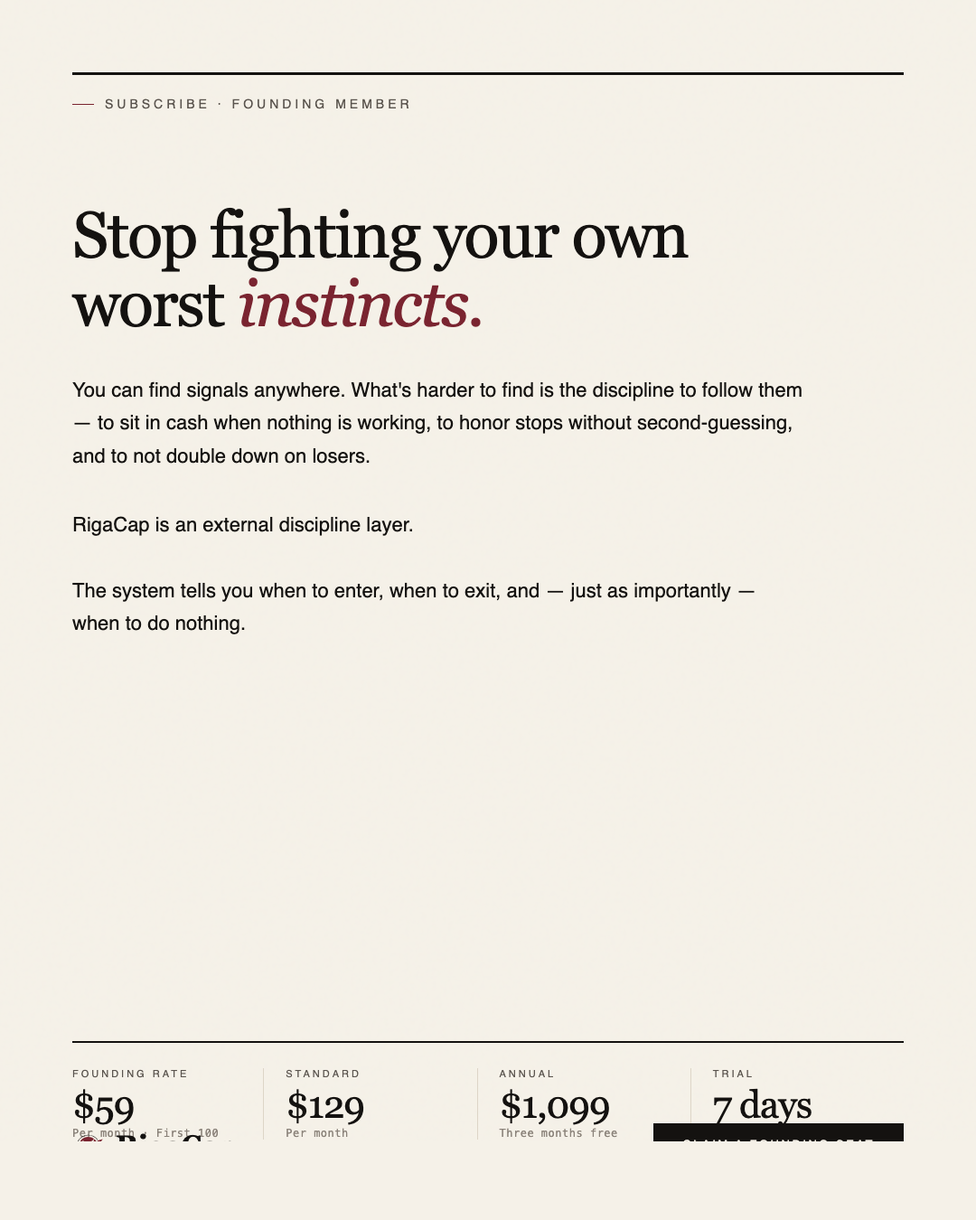
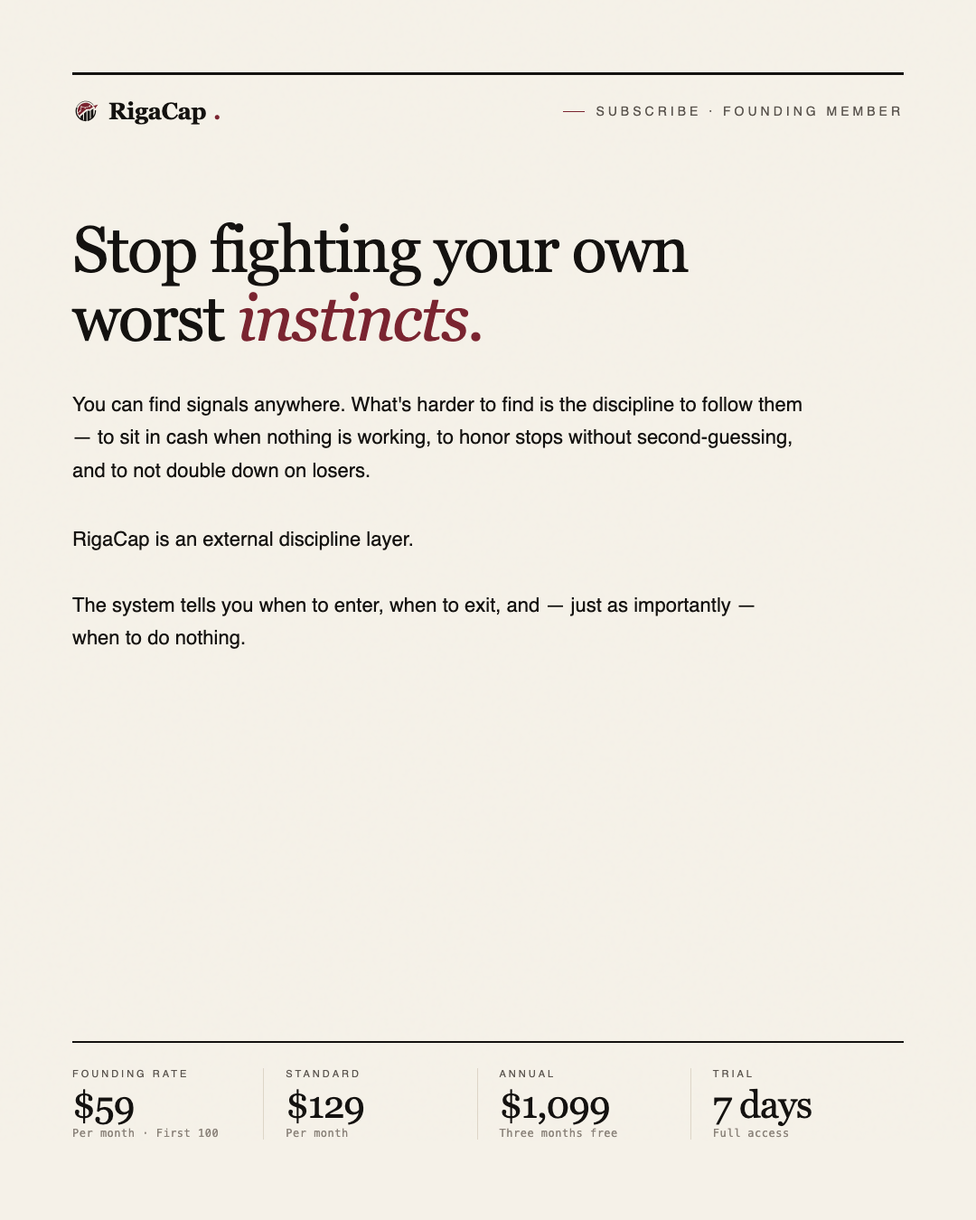
launch cards: brand to masthead, drop footer
The footer at the bottom of each card was getting clipped against the
1350px card edge — RigaCap brand mark + the black RIGACAP.COM CTA were
both partly cut off. And the footer's brand was duplicating something
that belongs in the masthead anyway.

  - .top-rule now flexes brand-left + kicker-right across a thick
    ink rule. New .masthead-brand class: 32px Fraunces logo + 26px
    semibold "RigaCap." with a claret dot.
  - The old .footer block (logo + RIGACAP.COM CTA) is removed from
    every card. The CTA url belongs in the social-post caption, not
    on the card.
  - Cleaner editorial register overall — the cards now lead with
    brand identity and let the stats/pillars fill the bottom of the
    canvas without competing with a footer.

diff --git a/design/brand/social-launch-cards-v2.html b/design/brand/social-launch-cards-v2.html
@@ -19,9 +19,12 @@
     opacity: 0.04; pointer-events: none; z-index: 1;
   }
   .content { position: relative; z-index: 2; height: 100%; display: flex; flex-direction: column; padding: 80px 80px 60px; }
-  .top-rule { border-top: 3px solid #141210; padding-top: 24px; margin-bottom: 40px; }
-  .kicker { font-size: 14px; font-weight: 500; letter-spacing: 4px; text-transform: uppercase; color: #5A544E; display: flex; align-items: center; gap: 12px; }
+  .top-rule { border-top: 3px solid #141210; padding-top: 24px; margin-bottom: 40px; display: flex; justify-content: space-between; align-items: center; gap: 24px; }
+  .kicker { font-size: 14px; font-weight: 500; letter-spacing: 4px; text-transform: uppercase; color: #5A544E; display: flex; align-items: center; gap: 12px; flex-shrink: 0; }
   .kicker::before { content: ''; width: 24px; height: 1px; background: #7A2430; }
+  .masthead-brand { font-family: 'Fraunces', Georgia, serif; font-size: 26px; font-weight: 600; letter-spacing: -0.5px; display: flex; align-items: center; gap: 8px; color: #141210; }
+  .masthead-brand .dot { color: #7A2430; }
+  .masthead-logo { width: 32px; height: 32px; }
   .headline { font-family: 'Fraunces', Georgia, serif; font-size: 72px; font-weight: 400; line-height: 1.05; letter-spacing: -2px; margin-top: 60px; }
   .headline em { color: #7A2430; font-style: italic; }
   .subhead { font-family: 'Fraunces', Georgia, serif; font-style: italic; font-size: 28px; color: #5A544E; line-height: 1.45; margin-top: 32px; max-width: 920px; }
@@ -60,6 +63,7 @@
 <div class="card">
   <div class="content">
     <div class="top-rule">
+      <span class="masthead-brand"><svg class="masthead-logo" xmlns="http://www.w3.org/2000/svg" viewBox="0 0 1280 1024"><g transform="matrix(5.27 0 0 5.27 640 511)"><g><g transform="matrix(0.448 0 0 0.448 -22.4 -28.8)"><path fill="#7A2430" transform="translate(-300,-286)" d="M215.49 348.13C215.49 341.43 220.55 335.98 227.05 335.22L241.64 278.36C238.32 275.99 236.13 272.12 236.13 267.73C236.13 260.51 241.98 254.66 249.2 254.66C255.89 254.66 261.34 259.71 262.11 266.19L309.18 278.16C311.55 274.82 315.42 272.63 319.83 272.63C324 272.63 327.67 274.62 330.06 277.66L391.39 258.85C391.87 252.06 397.46 246.69 404.37 246.69C405.09 246.69 405.78 246.79 406.47 246.91L420.4 223.13C395.44 205.2 364.84 194.62 331.76 194.62C247.75 194.62 179.66 262.72 179.66 346.72C179.66 357.06 180.71 367.15 182.69 376.91L216.05 351.72C215.72 350.57 215.49 349.38 215.49 348.13z"/></g><g transform="matrix(0.448 0 0 0.448 -11.1 -9)"><path fill="#7A2430" transform="translate(-325,-330)" d="M427.89 228.86L414.54 251.65C416.32 253.88 417.43 256.68 417.43 259.76C417.43 266.98 411.58 272.83 404.37 272.83C400.19 272.83 396.52 270.84 394.13 267.79L332.8 286.61C332.33 293.39 326.73 298.76 319.83 298.76C313.14 298.76 307.69 293.72 306.92 287.24L259.84 275.26C257.76 278.21 254.48 280.2 250.71 280.64L236.12 337.5C239.44 339.87 241.63 343.74 241.63 348.13C241.63 355.35 235.78 361.2 228.56 361.2C226.02 361.2 223.68 360.45 221.67 359.19L185.04 386.86C189.39 402.76 196.25 417.63 205.17 431L343.51 312.12L408.04 312.12L465.59 274.41C456.09 256.86 443.23 241.4 427.89 228.86z"/></g><g transform="matrix(0.448 0 0 0.448 73.8 -37.1)"><polygon fill="#7A2430" points="-45.31,-14.33 45.31,-39.44 -12.75,39.44 -17.06,3.28"/></g><g transform="matrix(0.448 0 0 0.448 -48.2 25.7)"><path fill="#141210" transform="translate(-242,-407)" d="M297.69 513.38C291.85 512.18 286.13 510.68 280.53 508.91L280.53 405.3L233.16 446.01L233.16 485.18C189.93 454.31 161.67 403.77 161.67 346.72C161.67 321.48 167.23 297.53 177.14 275.97L153.41 275.97C144.69 297.88 139.84 321.74 139.84 346.72C139.84 452.54 225.93 538.63 331.76 538.63C336.23 538.63 340.66 538.42 345.06 538.12L345.06 349.85L297.69 390.55L297.69 513.38z"/></g><g transform="matrix(0.448 0 0 0.448 41.6 31.4)"><path fill="#141210" transform="translate(-443,-420)" d="M523.16 333.38L501.27 333.38C501.62 337.79 501.85 342.23 501.85 346.72C501.85 381 491.63 412.92 474.11 439.65L474.11 304.24L426.75 335.28L426.75 487.65C421.24 491.37 415.52 494.78 409.58 497.85L409.58 341.74L362.22 341.74L362.22 536.19C453.61 521.55 523.67 442.17 523.67 346.72C523.67 342.23 523.46 337.79 523.16 333.38z"/></g><g transform="matrix(0.448 0 0 0.448 -11.8 -60.8)"><path fill="#141210" transform="translate(-324,-214)" d="M331.75 169.32C390.45 169.32 442.58 197.98 474.89 242.04L483.06 239.78C449.46 192.37 394.16 161.37 331.75 161.37C258.06 161.37 194.28 204.6 164.43 267.02L173.29 267.02C202.53 209.12 262.58 169.32 331.75 169.32z"/></g></g></g></svg>RigaCap<span class="dot">.</span></span>
       <div class="kicker">Now Live · May 2026</div>
     </div>
     <h1 class="headline">A disciplined momentum strategy that stays in cash when it should — and&nbsp;<em>exits</em> before major&nbsp;drawdowns.</h1>
@@ -71,10 +75,6 @@
       <div class="stat"><div class="stat-label">Worst Start</div><div class="stat-value">+109%</div><div class="stat-sub">Still nearly 2&times;</div></div>
       <div class="stat"><div class="stat-label">Sharpe</div><div class="stat-value">0.92</div><div class="stat-sub">Risk-adjusted</div></div>
     </div>
-    <div class="footer">
-      <span class="brand"><svg class="brand-logo" xmlns="http://www.w3.org/2000/svg" viewBox="0 0 1280 1024"><g transform="matrix(5.27 0 0 5.27 640 511)"><g><g transform="matrix(0.448 0 0 0.448 -22.4 -28.8)"><path fill="#7A2430" transform="translate(-300,-286)" d="M215.49 348.13C215.49 341.43 220.55 335.98 227.05 335.22L241.64 278.36C238.32 275.99 236.13 272.12 236.13 267.73C236.13 260.51 241.98 254.66 249.2 254.66C255.89 254.66 261.34 259.71 262.11 266.19L309.18 278.16C311.55 274.82 315.42 272.63 319.83 272.63C324 272.63 327.67 274.62 330.06 277.66L391.39 258.85C391.87 252.06 397.46 246.69 404.37 246.69C405.09 246.69 405.78 246.79 406.47 246.91L420.4 223.13C395.44 205.2 364.84 194.62 331.76 194.62C247.75 194.62 179.66 262.72 179.66 346.72C179.66 357.06 180.71 367.15 182.69 376.91L216.05 351.72C215.72 350.57 215.49 349.38 215.49 348.13z"/></g><g transform="matrix(0.448 0 0 0.448 -11.1 -9)"><path fill="#7A2430" transform="translate(-325,-330)" d="M427.89 228.86L414.54 251.65C416.32 253.88 417.43 256.68 417.43 259.76C417.43 266.98 411.58 272.83 404.37 272.83C400.19 272.83 396.52 270.84 394.13 267.79L332.8 286.61C332.33 293.39 326.73 298.76 319.83 298.76C313.14 298.76 307.69 293.72 306.92 287.24L259.84 275.26C257.76 278.21 254.48 280.2 250.71 280.64L236.12 337.5C239.44 339.87 241.63 343.74 241.63 348.13C241.63 355.35 235.78 361.2 228.56 361.2C226.02 361.2 223.68 360.45 221.67 359.19L185.04 386.86C189.39 402.76 196.25 417.63 205.17 431L343.51 312.12L408.04 312.12L465.59 274.41C456.09 256.86 443.23 241.4 427.89 228.86z"/></g><g transform="matrix(0.448 0 0 0.448 73.8 -37.1)"><polygon fill="#7A2430" points="-45.31,-14.33 45.31,-39.44 -12.75,39.44 -17.06,3.28"/></g><g transform="matrix(0.448 0 0 0.448 -48.2 25.7)"><path fill="#141210" transform="translate(-242,-407)" d="M297.69 513.38C291.85 512.18 286.13 510.68 280.53 508.91L280.53 405.3L233.16 446.01L233.16 485.18C189.93 454.31 161.67 403.77 161.67 346.72C161.67 321.48 167.23 297.53 177.14 275.97L153.41 275.97C144.69 297.88 139.84 321.74 139.84 346.72C139.84 452.54 225.93 538.63 331.76 538.63C336.23 538.63 340.66 538.42 345.06 538.12L345.06 349.85L297.69 390.55L297.69 513.38z"/></g><g transform="matrix(0.448 0 0 0.448 41.6 31.4)"><path fill="#141210" transform="translate(-443,-420)" d="M523.16 333.38L501.27 333.38C501.62 337.79 501.85 342.23 501.85 346.72C501.85 381 491.63 412.92 474.11 439.65L474.11 304.24L426.75 335.28L426.75 487.65C421.24 491.37 415.52 494.78 409.58 497.85L409.58 341.74L362.22 341.74L362.22 536.19C453.61 521.55 523.67 442.17 523.67 346.72C523.67 342.23 523.46 337.79 523.16 333.38z"/></g><g transform="matrix(0.448 0 0 0.448 -11.8 -60.8)"><path fill="#141210" transform="translate(-324,-214)" d="M331.75 169.32C390.45 169.32 442.58 197.98 474.89 242.04L483.06 239.78C449.46 192.37 394.16 161.37 331.75 161.37C258.06 161.37 194.28 204.6 164.43 267.02L173.29 267.02C202.53 209.12 262.58 169.32 331.75 169.32z"/></g></g></g></svg>RigaCap<span class="dot">.</span></span>
-      <span class="cta">rigacap.com</span>
-    </div>
   </div>
   <span class="card-label">1 / 5</span>
 </div>
@@ -83,6 +83,7 @@
 <div class="card">
   <div class="content">
     <div class="top-rule">
+      <span class="masthead-brand"><svg class="masthead-logo" xmlns="http://www.w3.org/2000/svg" viewBox="0 0 1280 1024"><g transform="matrix(5.27 0 0 5.27 640 511)"><g><g transform="matrix(0.448 0 0 0.448 -22.4 -28.8)"><path fill="#7A2430" transform="translate(-300,-286)" d="M215.49 348.13C215.49 341.43 220.55 335.98 227.05 335.22L241.64 278.36C238.32 275.99 236.13 272.12 236.13 267.73C236.13 260.51 241.98 254.66 249.2 254.66C255.89 254.66 261.34 259.71 262.11 266.19L309.18 278.16C311.55 274.82 315.42 272.63 319.83 272.63C324 272.63 327.67 274.62 330.06 277.66L391.39 258.85C391.87 252.06 397.46 246.69 404.37 246.69C405.09 246.69 405.78 246.79 406.47 246.91L420.4 223.13C395.44 205.2 364.84 194.62 331.76 194.62C247.75 194.62 179.66 262.72 179.66 346.72C179.66 357.06 180.71 367.15 182.69 376.91L216.05 351.72C215.72 350.57 215.49 349.38 215.49 348.13z"/></g><g transform="matrix(0.448 0 0 0.448 -11.1 -9)"><path fill="#7A2430" transform="translate(-325,-330)" d="M427.89 228.86L414.54 251.65C416.32 253.88 417.43 256.68 417.43 259.76C417.43 266.98 411.58 272.83 404.37 272.83C400.19 272.83 396.52 270.84 394.13 267.79L332.8 286.61C332.33 293.39 326.73 298.76 319.83 298.76C313.14 298.76 307.69 293.72 306.92 287.24L259.84 275.26C257.76 278.21 254.48 280.2 250.71 280.64L236.12 337.5C239.44 339.87 241.63 343.74 241.63 348.13C241.63 355.35 235.78 361.2 228.56 361.2C226.02 361.2 223.68 360.45 221.67 359.19L185.04 386.86C189.39 402.76 196.25 417.63 205.17 431L343.51 312.12L408.04 312.12L465.59 274.41C456.09 256.86 443.23 241.4 427.89 228.86z"/></g><g transform="matrix(0.448 0 0 0.448 73.8 -37.1)"><polygon fill="#7A2430" points="-45.31,-14.33 45.31,-39.44 -12.75,39.44 -17.06,3.28"/></g><g transform="matrix(0.448 0 0 0.448 -48.2 25.7)"><path fill="#141210" transform="translate(-242,-407)" d="M297.69 513.38C291.85 512.18 286.13 510.68 280.53 508.91L280.53 405.3L233.16 446.01L233.16 485.18C189.93 454.31 161.67 403.77 161.67 346.72C161.67 321.48 167.23 297.53 177.14 275.97L153.41 275.97C144.69 297.88 139.84 321.74 139.84 346.72C139.84 452.54 225.93 538.63 331.76 538.63C336.23 538.63 340.66 538.42 345.06 538.12L345.06 349.85L297.69 390.55L297.69 513.38z"/></g><g transform="matrix(0.448 0 0 0.448 41.6 31.4)"><path fill="#141210" transform="translate(-443,-420)" d="M523.16 333.38L501.27 333.38C501.62 337.79 501.85 342.23 501.85 346.72C501.85 381 491.63 412.92 474.11 439.65L474.11 304.24L426.75 335.28L426.75 487.65C421.24 491.37 415.52 494.78 409.58 497.85L409.58 341.74L362.22 341.74L362.22 536.19C453.61 521.55 523.67 442.17 523.67 346.72C523.67 342.23 523.46 337.79 523.16 333.38z"/></g><g transform="matrix(0.448 0 0 0.448 -11.8 -60.8)"><path fill="#141210" transform="translate(-324,-214)" d="M331.75 169.32C390.45 169.32 442.58 197.98 474.89 242.04L483.06 239.78C449.46 192.37 394.16 161.37 331.75 161.37C258.06 161.37 194.28 204.6 164.43 267.02L173.29 267.02C202.53 209.12 262.58 169.32 331.75 169.32z"/></g></g></g></svg>RigaCap<span class="dot">.</span></span>
       <div class="kicker">Performance · Walk-Forward Validated</div>
     </div>
     <h1 class="headline">Five years.<br>Multiple start dates.<br>No&nbsp;<em>cherry-picking.</em></h1>
@@ -95,10 +96,6 @@
       <div class="stat"><div class="stat-label">Max DD</div><div class="stat-value">20.4%</div><div class="stat-sub">Drawdown</div></div>
     </div>
     <div class="pullquote">Every start date ended 2022 in positive territory while the S&P fell 20% — not by luck, but by&nbsp;design.</div>
-    <div class="footer">
-      <span class="brand"><svg class="brand-logo" xmlns="http://www.w3.org/2000/svg" viewBox="0 0 1280 1024"><g transform="matrix(5.27 0 0 5.27 640 511)"><g><g transform="matrix(0.448 0 0 0.448 -22.4 -28.8)"><path fill="#7A2430" transform="translate(-300,-286)" d="M215.49 348.13C215.49 341.43 220.55 335.98 227.05 335.22L241.64 278.36C238.32 275.99 236.13 272.12 236.13 267.73C236.13 260.51 241.98 254.66 249.2 254.66C255.89 254.66 261.34 259.71 262.11 266.19L309.18 278.16C311.55 274.82 315.42 272.63 319.83 272.63C324 272.63 327.67 274.62 330.06 277.66L391.39 258.85C391.87 252.06 397.46 246.69 404.37 246.69C405.09 246.69 405.78 246.79 406.47 246.91L420.4 223.13C395.44 205.2 364.84 194.62 331.76 194.62C247.75 194.62 179.66 262.72 179.66 346.72C179.66 357.06 180.71 367.15 182.69 376.91L216.05 351.72C215.72 350.57 215.49 349.38 215.49 348.13z"/></g><g transform="matrix(0.448 0 0 0.448 -11.1 -9)"><path fill="#7A2430" transform="translate(-325,-330)" d="M427.89 228.86L414.54 251.65C416.32 253.88 417.43 256.68 417.43 259.76C417.43 266.98 411.58 272.83 404.37 272.83C400.19 272.83 396.52 270.84 394.13 267.79L332.8 286.61C332.33 293.39 326.73 298.76 319.83 298.76C313.14 298.76 307.69 293.72 306.92 287.24L259.84 275.26C257.76 278.21 254.48 280.2 250.71 280.64L236.12 337.5C239.44 339.87 241.63 343.74 241.63 348.13C241.63 355.35 235.78 361.2 228.56 361.2C226.02 361.2 223.68 360.45 221.67 359.19L185.04 386.86C189.39 402.76 196.25 417.63 205.17 431L343.51 312.12L408.04 312.12L465.59 274.41C456.09 256.86 443.23 241.4 427.89 228.86z"/></g><g transform="matrix(0.448 0 0 0.448 73.8 -37.1)"><polygon fill="#7A2430" points="-45.31,-14.33 45.31,-39.44 -12.75,39.44 -17.06,3.28"/></g><g transform="matrix(0.448 0 0 0.448 -48.2 25.7)"><path fill="#141210" transform="translate(-242,-407)" d="M297.69 513.38C291.85 512.18 286.13 510.68 280.53 508.91L280.53 405.3L233.16 446.01L233.16 485.18C189.93 454.31 161.67 403.77 161.67 346.72C161.67 321.48 167.23 297.53 177.14 275.97L153.41 275.97C144.69 297.88 139.84 321.74 139.84 346.72C139.84 452.54 225.93 538.63 331.76 538.63C336.23 538.63 340.66 538.42 345.06 538.12L345.06 349.85L297.69 390.55L297.69 513.38z"/></g><g transform="matrix(0.448 0 0 0.448 41.6 31.4)"><path fill="#141210" transform="translate(-443,-420)" d="M523.16 333.38L501.27 333.38C501.62 337.79 501.85 342.23 501.85 346.72C501.85 381 491.63 412.92 474.11 439.65L474.11 304.24L426.75 335.28L426.75 487.65C421.24 491.37 415.52 494.78 409.58 497.85L409.58 341.74L362.22 341.74L362.22 536.19C453.61 521.55 523.67 442.17 523.67 346.72C523.67 342.23 523.46 337.79 523.16 333.38z"/></g><g transform="matrix(0.448 0 0 0.448 -11.8 -60.8)"><path fill="#141210" transform="translate(-324,-214)" d="M331.75 169.32C390.45 169.32 442.58 197.98 474.89 242.04L483.06 239.78C449.46 192.37 394.16 161.37 331.75 161.37C258.06 161.37 194.28 204.6 164.43 267.02L173.29 267.02C202.53 209.12 262.58 169.32 331.75 169.32z"/></g></g></g></svg>RigaCap<span class="dot">.</span></span>
-      <span class="cta">rigacap.com/track-record</span>
-    </div>
   </div>
   <span class="card-label">2 / 5</span>
 </div>
@@ -107,6 +104,7 @@
 <div class="card">
   <div class="content">
     <div class="top-rule">
+      <span class="masthead-brand"><svg class="masthead-logo" xmlns="http://www.w3.org/2000/svg" viewBox="0 0 1280 1024"><g transform="matrix(5.27 0 0 5.27 640 511)"><g><g transform="matrix(0.448 0 0 0.448 -22.4 -28.8)"><path fill="#7A2430" transform="translate(-300,-286)" d="M215.49 348.13C215.49 341.43 220.55 335.98 227.05 335.22L241.64 278.36C238.32 275.99 236.13 272.12 236.13 267.73C236.13 260.51 241.98 254.66 249.2 254.66C255.89 254.66 261.34 259.71 262.11 266.19L309.18 278.16C311.55 274.82 315.42 272.63 319.83 272.63C324 272.63 327.67 274.62 330.06 277.66L391.39 258.85C391.87 252.06 397.46 246.69 404.37 246.69C405.09 246.69 405.78 246.79 406.47 246.91L420.4 223.13C395.44 205.2 364.84 194.62 331.76 194.62C247.75 194.62 179.66 262.72 179.66 346.72C179.66 357.06 180.71 367.15 182.69 376.91L216.05 351.72C215.72 350.57 215.49 349.38 215.49 348.13z"/></g><g transform="matrix(0.448 0 0 0.448 -11.1 -9)"><path fill="#7A2430" transform="translate(-325,-330)" d="M427.89 228.86L414.54 251.65C416.32 253.88 417.43 256.68 417.43 259.76C417.43 266.98 411.58 272.83 404.37 272.83C400.19 272.83 396.52 270.84 394.13 267.79L332.8 286.61C332.33 293.39 326.73 298.76 319.83 298.76C313.14 298.76 307.69 293.72 306.92 287.24L259.84 275.26C257.76 278.21 254.48 280.2 250.71 280.64L236.12 337.5C239.44 339.87 241.63 343.74 241.63 348.13C241.63 355.35 235.78 361.2 228.56 361.2C226.02 361.2 223.68 360.45 221.67 359.19L185.04 386.86C189.39 402.76 196.25 417.63 205.17 431L343.51 312.12L408.04 312.12L465.59 274.41C456.09 256.86 443.23 241.4 427.89 228.86z"/></g><g transform="matrix(0.448 0 0 0.448 73.8 -37.1)"><polygon fill="#7A2430" points="-45.31,-14.33 45.31,-39.44 -12.75,39.44 -17.06,3.28"/></g><g transform="matrix(0.448 0 0 0.448 -48.2 25.7)"><path fill="#141210" transform="translate(-242,-407)" d="M297.69 513.38C291.85 512.18 286.13 510.68 280.53 508.91L280.53 405.3L233.16 446.01L233.16 485.18C189.93 454.31 161.67 403.77 161.67 346.72C161.67 321.48 167.23 297.53 177.14 275.97L153.41 275.97C144.69 297.88 139.84 321.74 139.84 346.72C139.84 452.54 225.93 538.63 331.76 538.63C336.23 538.63 340.66 538.42 345.06 538.12L345.06 349.85L297.69 390.55L297.69 513.38z"/></g><g transform="matrix(0.448 0 0 0.448 41.6 31.4)"><path fill="#141210" transform="translate(-443,-420)" d="M523.16 333.38L501.27 333.38C501.62 337.79 501.85 342.23 501.85 346.72C501.85 381 491.63 412.92 474.11 439.65L474.11 304.24L426.75 335.28L426.75 487.65C421.24 491.37 415.52 494.78 409.58 497.85L409.58 341.74L362.22 341.74L362.22 536.19C453.61 521.55 523.67 442.17 523.67 346.72C523.67 342.23 523.46 337.79 523.16 333.38z"/></g><g transform="matrix(0.448 0 0 0.448 -11.8 -60.8)"><path fill="#141210" transform="translate(-324,-214)" d="M331.75 169.32C390.45 169.32 442.58 197.98 474.89 242.04L483.06 239.78C449.46 192.37 394.16 161.37 331.75 161.37C258.06 161.37 194.28 204.6 164.43 267.02L173.29 267.02C202.53 209.12 262.58 169.32 331.75 169.32z"/></g></g></g></svg>RigaCap<span class="dot">.</span></span>
       <div class="kicker">The Edge · Three-Factor Ensemble</div>
     </div>
     <h1 class="headline">Three pieces of discipline.<br>All must&nbsp;<em>align.</em></h1>
@@ -128,10 +126,6 @@
       </div>
     </div>
     <div class="spacer"></div>
-    <div class="footer">
-      <span class="brand"><svg class="brand-logo" xmlns="http://www.w3.org/2000/svg" viewBox="0 0 1280 1024"><g transform="matrix(5.27 0 0 5.27 640 511)"><g><g transform="matrix(0.448 0 0 0.448 -22.4 -28.8)"><path fill="#7A2430" transform="translate(-300,-286)" d="M215.49 348.13C215.49 341.43 220.55 335.98 227.05 335.22L241.64 278.36C238.32 275.99 236.13 272.12 236.13 267.73C236.13 260.51 241.98 254.66 249.2 254.66C255.89 254.66 261.34 259.71 262.11 266.19L309.18 278.16C311.55 274.82 315.42 272.63 319.83 272.63C324 272.63 327.67 274.62 330.06 277.66L391.39 258.85C391.87 252.06 397.46 246.69 404.37 246.69C405.09 246.69 405.78 246.79 406.47 246.91L420.4 223.13C395.44 205.2 364.84 194.62 331.76 194.62C247.75 194.62 179.66 262.72 179.66 346.72C179.66 357.06 180.71 367.15 182.69 376.91L216.05 351.72C215.72 350.57 215.49 349.38 215.49 348.13z"/></g><g transform="matrix(0.448 0 0 0.448 -11.1 -9)"><path fill="#7A2430" transform="translate(-325,-330)" d="M427.89 228.86L414.54 251.65C416.32 253.88 417.43 256.68 417.43 259.76C417.43 266.98 411.58 272.83 404.37 272.83C400.19 272.83 396.52 270.84 394.13 267.79L332.8 286.61C332.33 293.39 326.73 298.76 319.83 298.76C313.14 298.76 307.69 293.72 306.92 287.24L259.84 275.26C257.76 278.21 254.48 280.2 250.71 280.64L236.12 337.5C239.44 339.87 241.63 343.74 241.63 348.13C241.63 355.35 235.78 361.2 228.56 361.2C226.02 361.2 223.68 360.45 221.67 359.19L185.04 386.86C189.39 402.76 196.25 417.63 205.17 431L343.51 312.12L408.04 312.12L465.59 274.41C456.09 256.86 443.23 241.4 427.89 228.86z"/></g><g transform="matrix(0.448 0 0 0.448 73.8 -37.1)"><polygon fill="#7A2430" points="-45.31,-14.33 45.31,-39.44 -12.75,39.44 -17.06,3.28"/></g><g transform="matrix(0.448 0 0 0.448 -48.2 25.7)"><path fill="#141210" transform="translate(-242,-407)" d="M297.69 513.38C291.85 512.18 286.13 510.68 280.53 508.91L280.53 405.3L233.16 446.01L233.16 485.18C189.93 454.31 161.67 403.77 161.67 346.72C161.67 321.48 167.23 297.53 177.14 275.97L153.41 275.97C144.69 297.88 139.84 321.74 139.84 346.72C139.84 452.54 225.93 538.63 331.76 538.63C336.23 538.63 340.66 538.42 345.06 538.12L345.06 349.85L297.69 390.55L297.69 513.38z"/></g><g transform="matrix(0.448 0 0 0.448 41.6 31.4)"><path fill="#141210" transform="translate(-443,-420)" d="M523.16 333.38L501.27 333.38C501.62 337.79 501.85 342.23 501.85 346.72C501.85 381 491.63 412.92 474.11 439.65L474.11 304.24L426.75 335.28L426.75 487.65C421.24 491.37 415.52 494.78 409.58 497.85L409.58 341.74L362.22 341.74L362.22 536.19C453.61 521.55 523.67 442.17 523.67 346.72C523.67 342.23 523.46 337.79 523.16 333.38z"/></g><g transform="matrix(0.448 0 0 0.448 -11.8 -60.8)"><path fill="#141210" transform="translate(-324,-214)" d="M331.75 169.32C390.45 169.32 442.58 197.98 474.89 242.04L483.06 239.78C449.46 192.37 394.16 161.37 331.75 161.37C258.06 161.37 194.28 204.6 164.43 267.02L173.29 267.02C202.53 209.12 262.58 169.32 331.75 169.32z"/></g></g></g></svg>RigaCap<span class="dot">.</span></span>
-      <span class="cta">rigacap.com/methodology</span>
-    </div>
   </div>
   <span class="card-label">3 / 5</span>
 </div>
@@ -140,6 +134,7 @@
 <div class="card">
   <div class="content">
     <div class="top-rule">
+      <span class="masthead-brand"><svg class="masthead-logo" xmlns="http://www.w3.org/2000/svg" viewBox="0 0 1280 1024"><g transform="matrix(5.27 0 0 5.27 640 511)"><g><g transform="matrix(0.448 0 0 0.448 -22.4 -28.8)"><path fill="#7A2430" transform="translate(-300,-286)" d="M215.49 348.13C215.49 341.43 220.55 335.98 227.05 335.22L241.64 278.36C238.32 275.99 236.13 272.12 236.13 267.73C236.13 260.51 241.98 254.66 249.2 254.66C255.89 254.66 261.34 259.71 262.11 266.19L309.18 278.16C311.55 274.82 315.42 272.63 319.83 272.63C324 272.63 327.67 274.62 330.06 277.66L391.39 258.85C391.87 252.06 397.46 246.69 404.37 246.69C405.09 246.69 405.78 246.79 406.47 246.91L420.4 223.13C395.44 205.2 364.84 194.62 331.76 194.62C247.75 194.62 179.66 262.72 179.66 346.72C179.66 357.06 180.71 367.15 182.69 376.91L216.05 351.72C215.72 350.57 215.49 349.38 215.49 348.13z"/></g><g transform="matrix(0.448 0 0 0.448 -11.1 -9)"><path fill="#7A2430" transform="translate(-325,-330)" d="M427.89 228.86L414.54 251.65C416.32 253.88 417.43 256.68 417.43 259.76C417.43 266.98 411.58 272.83 404.37 272.83C400.19 272.83 396.52 270.84 394.13 267.79L332.8 286.61C332.33 293.39 326.73 298.76 319.83 298.76C313.14 298.76 307.69 293.72 306.92 287.24L259.84 275.26C257.76 278.21 254.48 280.2 250.71 280.64L236.12 337.5C239.44 339.87 241.63 343.74 241.63 348.13C241.63 355.35 235.78 361.2 228.56 361.2C226.02 361.2 223.68 360.45 221.67 359.19L185.04 386.86C189.39 402.76 196.25 417.63 205.17 431L343.51 312.12L408.04 312.12L465.59 274.41C456.09 256.86 443.23 241.4 427.89 228.86z"/></g><g transform="matrix(0.448 0 0 0.448 73.8 -37.1)"><polygon fill="#7A2430" points="-45.31,-14.33 45.31,-39.44 -12.75,39.44 -17.06,3.28"/></g><g transform="matrix(0.448 0 0 0.448 -48.2 25.7)"><path fill="#141210" transform="translate(-242,-407)" d="M297.69 513.38C291.85 512.18 286.13 510.68 280.53 508.91L280.53 405.3L233.16 446.01L233.16 485.18C189.93 454.31 161.67 403.77 161.67 346.72C161.67 321.48 167.23 297.53 177.14 275.97L153.41 275.97C144.69 297.88 139.84 321.74 139.84 346.72C139.84 452.54 225.93 538.63 331.76 538.63C336.23 538.63 340.66 538.42 345.06 538.12L345.06 349.85L297.69 390.55L297.69 513.38z"/></g><g transform="matrix(0.448 0 0 0.448 41.6 31.4)"><path fill="#141210" transform="translate(-443,-420)" d="M523.16 333.38L501.27 333.38C501.62 337.79 501.85 342.23 501.85 346.72C501.85 381 491.63 412.92 474.11 439.65L474.11 304.24L426.75 335.28L426.75 487.65C421.24 491.37 415.52 494.78 409.58 497.85L409.58 341.74L362.22 341.74L362.22 536.19C453.61 521.55 523.67 442.17 523.67 346.72C523.67 342.23 523.46 337.79 523.16 333.38z"/></g><g transform="matrix(0.448 0 0 0.448 -11.8 -60.8)"><path fill="#141210" transform="translate(-324,-214)" d="M331.75 169.32C390.45 169.32 442.58 197.98 474.89 242.04L483.06 239.78C449.46 192.37 394.16 161.37 331.75 161.37C258.06 161.37 194.28 204.6 164.43 267.02L173.29 267.02C202.53 209.12 262.58 169.32 331.75 169.32z"/></g></g></g></svg>RigaCap<span class="dot">.</span></span>
       <div class="kicker">Market Intelligence · Seven Regimes</div>
     </div>
     <h1 class="headline">The system sees seven distinct market&nbsp;<em>conditions.</em></h1>
@@ -154,10 +149,6 @@
       <div class="regime-row" style="border-bottom:none;"><div class="regime-dot" style="background:#DDD5C7;border:1px solid #C9BFAC;"></div><div class="regime-name">Recovery</div><div class="regime-desc">Rebounding from recent lows</div></div>
     </div>
     <div class="spacer"></div>
-    <div class="footer">
-      <span class="brand"><svg class="brand-logo" xmlns="http://www.w3.org/2000/svg" viewBox="0 0 1280 1024"><g transform="matrix(5.27 0 0 5.27 640 511)"><g><g transform="matrix(0.448 0 0 0.448 -22.4 -28.8)"><path fill="#7A2430" transform="translate(-300,-286)" d="M215.49 348.13C215.49 341.43 220.55 335.98 227.05 335.22L241.64 278.36C238.32 275.99 236.13 272.12 236.13 267.73C236.13 260.51 241.98 254.66 249.2 254.66C255.89 254.66 261.34 259.71 262.11 266.19L309.18 278.16C311.55 274.82 315.42 272.63 319.83 272.63C324 272.63 327.67 274.62 330.06 277.66L391.39 258.85C391.87 252.06 397.46 246.69 404.37 246.69C405.09 246.69 405.78 246.79 406.47 246.91L420.4 223.13C395.44 205.2 364.84 194.62 331.76 194.62C247.75 194.62 179.66 262.72 179.66 346.72C179.66 357.06 180.71 367.15 182.69 376.91L216.05 351.72C215.72 350.57 215.49 349.38 215.49 348.13z"/></g><g transform="matrix(0.448 0 0 0.448 -11.1 -9)"><path fill="#7A2430" transform="translate(-325,-330)" d="M427.89 228.86L414.54 251.65C416.32 253.88 417.43 256.68 417.43 259.76C417.43 266.98 411.58 272.83 404.37 272.83C400.19 272.83 396.52 270.84 394.13 267.79L332.8 286.61C332.33 293.39 326.73 298.76 319.83 298.76C313.14 298.76 307.69 293.72 306.92 287.24L259.84 275.26C257.76 278.21 254.48 280.2 250.71 280.64L236.12 337.5C239.44 339.87 241.63 343.74 241.63 348.13C241.63 355.35 235.78 361.2 228.56 361.2C226.02 361.2 223.68 360.45 221.67 359.19L185.04 386.86C189.39 402.76 196.25 417.63 205.17 431L343.51 312.12L408.04 312.12L465.59 274.41C456.09 256.86 443.23 241.4 427.89 228.86z"/></g><g transform="matrix(0.448 0 0 0.448 73.8 -37.1)"><polygon fill="#7A2430" points="-45.31,-14.33 45.31,-39.44 -12.75,39.44 -17.06,3.28"/></g><g transform="matrix(0.448 0 0 0.448 -48.2 25.7)"><path fill="#141210" transform="translate(-242,-407)" d="M297.69 513.38C291.85 512.18 286.13 510.68 280.53 508.91L280.53 405.3L233.16 446.01L233.16 485.18C189.93 454.31 161.67 403.77 161.67 346.72C161.67 321.48 167.23 297.53 177.14 275.97L153.41 275.97C144.69 297.88 139.84 321.74 139.84 346.72C139.84 452.54 225.93 538.63 331.76 538.63C336.23 538.63 340.66 538.42 345.06 538.12L345.06 349.85L297.69 390.55L297.69 513.38z"/></g><g transform="matrix(0.448 0 0 0.448 41.6 31.4)"><path fill="#141210" transform="translate(-443,-420)" d="M523.16 333.38L501.27 333.38C501.62 337.79 501.85 342.23 501.85 346.72C501.85 381 491.63 412.92 474.11 439.65L474.11 304.24L426.75 335.28L426.75 487.65C421.24 491.37 415.52 494.78 409.58 497.85L409.58 341.74L362.22 341.74L362.22 536.19C453.61 521.55 523.67 442.17 523.67 346.72C523.67 342.23 523.46 337.79 523.16 333.38z"/></g><g transform="matrix(0.448 0 0 0.448 -11.8 -60.8)"><path fill="#141210" transform="translate(-324,-214)" d="M331.75 169.32C390.45 169.32 442.58 197.98 474.89 242.04L483.06 239.78C449.46 192.37 394.16 161.37 331.75 161.37C258.06 161.37 194.28 204.6 164.43 267.02L173.29 267.02C202.53 209.12 262.58 169.32 331.75 169.32z"/></g></g></g></svg>RigaCap<span class="dot">.</span></span>
-      <span class="cta">rigacap.com/market-regime</span>
-    </div>
   </div>
   <span class="card-label">4 / 5</span>
 </div>
@@ -166,6 +157,7 @@
 <div class="card">
   <div class="content">
     <div class="top-rule">
+      <span class="masthead-brand"><svg class="masthead-logo" xmlns="http://www.w3.org/2000/svg" viewBox="0 0 1280 1024"><g transform="matrix(5.27 0 0 5.27 640 511)"><g><g transform="matrix(0.448 0 0 0.448 -22.4 -28.8)"><path fill="#7A2430" transform="translate(-300,-286)" d="M215.49 348.13C215.49 341.43 220.55 335.98 227.05 335.22L241.64 278.36C238.32 275.99 236.13 272.12 236.13 267.73C236.13 260.51 241.98 254.66 249.2 254.66C255.89 254.66 261.34 259.71 262.11 266.19L309.18 278.16C311.55 274.82 315.42 272.63 319.83 272.63C324 272.63 327.67 274.62 330.06 277.66L391.39 258.85C391.87 252.06 397.46 246.69 404.37 246.69C405.09 246.69 405.78 246.79 406.47 246.91L420.4 223.13C395.44 205.2 364.84 194.62 331.76 194.62C247.75 194.62 179.66 262.72 179.66 346.72C179.66 357.06 180.71 367.15 182.69 376.91L216.05 351.72C215.72 350.57 215.49 349.38 215.49 348.13z"/></g><g transform="matrix(0.448 0 0 0.448 -11.1 -9)"><path fill="#7A2430" transform="translate(-325,-330)" d="M427.89 228.86L414.54 251.65C416.32 253.88 417.43 256.68 417.43 259.76C417.43 266.98 411.58 272.83 404.37 272.83C400.19 272.83 396.52 270.84 394.13 267.79L332.8 286.61C332.33 293.39 326.73 298.76 319.83 298.76C313.14 298.76 307.69 293.72 306.92 287.24L259.84 275.26C257.76 278.21 254.48 280.2 250.71 280.64L236.12 337.5C239.44 339.87 241.63 343.74 241.63 348.13C241.63 355.35 235.78 361.2 228.56 361.2C226.02 361.2 223.68 360.45 221.67 359.19L185.04 386.86C189.39 402.76 196.25 417.63 205.17 431L343.51 312.12L408.04 312.12L465.59 274.41C456.09 256.86 443.23 241.4 427.89 228.86z"/></g><g transform="matrix(0.448 0 0 0.448 73.8 -37.1)"><polygon fill="#7A2430" points="-45.31,-14.33 45.31,-39.44 -12.75,39.44 -17.06,3.28"/></g><g transform="matrix(0.448 0 0 0.448 -48.2 25.7)"><path fill="#141210" transform="translate(-242,-407)" d="M297.69 513.38C291.85 512.18 286.13 510.68 280.53 508.91L280.53 405.3L233.16 446.01L233.16 485.18C189.93 454.31 161.67 403.77 161.67 346.72C161.67 321.48 167.23 297.53 177.14 275.97L153.41 275.97C144.69 297.88 139.84 321.74 139.84 346.72C139.84 452.54 225.93 538.63 331.76 538.63C336.23 538.63 340.66 538.42 345.06 538.12L345.06 349.85L297.69 390.55L297.69 513.38z"/></g><g transform="matrix(0.448 0 0 0.448 41.6 31.4)"><path fill="#141210" transform="translate(-443,-420)" d="M523.16 333.38L501.27 333.38C501.62 337.79 501.85 342.23 501.85 346.72C501.85 381 491.63 412.92 474.11 439.65L474.11 304.24L426.75 335.28L426.75 487.65C421.24 491.37 415.52 494.78 409.58 497.85L409.58 341.74L362.22 341.74L362.22 536.19C453.61 521.55 523.67 442.17 523.67 346.72C523.67 342.23 523.46 337.79 523.16 333.38z"/></g><g transform="matrix(0.448 0 0 0.448 -11.8 -60.8)"><path fill="#141210" transform="translate(-324,-214)" d="M331.75 169.32C390.45 169.32 442.58 197.98 474.89 242.04L483.06 239.78C449.46 192.37 394.16 161.37 331.75 161.37C258.06 161.37 194.28 204.6 164.43 267.02L173.29 267.02C202.53 209.12 262.58 169.32 331.75 169.32z"/></g></g></g></svg>RigaCap<span class="dot">.</span></span>
       <div class="kicker">Subscribe · Founding Member</div>
     </div>
     <h1 class="headline">Stop fighting your own worst&nbsp;<em>instincts.</em></h1>
@@ -183,10 +175,6 @@
       <div class="stat"><div class="stat-label">Standard</div><div class="stat-value">$129</div><div class="stat-sub">Per month</div></div>
       <div class="stat"><div class="stat-label">Annual</div><div class="stat-value">$1,099</div><div class="stat-sub">Three months free</div></div>
       <div class="stat"><div class="stat-label">Trial</div><div class="stat-value">7 days</div><div class="stat-sub">Full access</div></div>
-    </div>
-    <div class="footer">
-      <span class="brand"><svg class="brand-logo" xmlns="http://www.w3.org/2000/svg" viewBox="0 0 1280 1024"><g transform="matrix(5.27 0 0 5.27 640 511)"><g><g transform="matrix(0.448 0 0 0.448 -22.4 -28.8)"><path fill="#7A2430" transform="translate(-300,-286)" d="M215.49 348.13C215.49 341.43 220.55 335.98 227.05 335.22L241.64 278.36C238.32 275.99 236.13 272.12 236.13 267.73C236.13 260.51 241.98 254.66 249.2 254.66C255.89 254.66 261.34 259.71 262.11 266.19L309.18 278.16C311.55 274.82 315.42 272.63 319.83 272.63C324 272.63 327.67 274.62 330.06 277.66L391.39 258.85C391.87 252.06 397.46 246.69 404.37 246.69C405.09 246.69 405.78 246.79 406.47 246.91L420.4 223.13C395.44 205.2 364.84 194.62 331.76 194.62C247.75 194.62 179.66 262.72 179.66 346.72C179.66 357.06 180.71 367.15 182.69 376.91L216.05 351.72C215.72 350.57 215.49 349.38 215.49 348.13z"/></g><g transform="matrix(0.448 0 0 0.448 -11.1 -9)"><path fill="#7A2430" transform="translate(-325,-330)" d="M427.89 228.86L414.54 251.65C416.32 253.88 417.43 256.68 417.43 259.76C417.43 266.98 411.58 272.83 404.37 272.83C400.19 272.83 396.52 270.84 394.13 267.79L332.8 286.61C332.33 293.39 326.73 298.76 319.83 298.76C313.14 298.76 307.69 293.72 306.92 287.24L259.84 275.26C257.76 278.21 254.48 280.2 250.71 280.64L236.12 337.5C239.44 339.87 241.63 343.74 241.63 348.13C241.63 355.35 235.78 361.2 228.56 361.2C226.02 361.2 223.68 360.45 221.67 359.19L185.04 386.86C189.39 402.76 196.25 417.63 205.17 431L343.51 312.12L408.04 312.12L465.59 274.41C456.09 256.86 443.23 241.4 427.89 228.86z"/></g><g transform="matrix(0.448 0 0 0.448 73.8 -37.1)"><polygon fill="#7A2430" points="-45.31,-14.33 45.31,-39.44 -12.75,39.44 -17.06,3.28"/></g><g transform="matrix(0.448 0 0 0.448 -48.2 25.7)"><path fill="#141210" transform="translate(-242,-407)" d="M297.69 513.38C291.85 512.18 286.13 510.68 280.53 508.91L280.53 405.3L233.16 446.01L233.16 485.18C189.93 454.31 161.67 403.77 161.67 346.72C161.67 321.48 167.23 297.53 177.14 275.97L153.41 275.97C144.69 297.88 139.84 321.74 139.84 346.72C139.84 452.54 225.93 538.63 331.76 538.63C336.23 538.63 340.66 538.42 345.06 538.12L345.06 349.85L297.69 390.55L297.69 513.38z"/></g><g transform="matrix(0.448 0 0 0.448 41.6 31.4)"><path fill="#141210" transform="translate(-443,-420)" d="M523.16 333.38L501.27 333.38C501.62 337.79 501.85 342.23 501.85 346.72C501.85 381 491.63 412.92 474.11 439.65L474.11 304.24L426.75 335.28L426.75 487.65C421.24 491.37 415.52 494.78 409.58 497.85L409.58 341.74L362.22 341.74L362.22 536.19C453.61 521.55 523.67 442.17 523.67 346.72C523.67 342.23 523.46 337.79 523.16 333.38z"/></g><g transform="matrix(0.448 0 0 0.448 -11.8 -60.8)"><path fill="#141210" transform="translate(-324,-214)" d="M331.75 169.32C390.45 169.32 442.58 197.98 474.89 242.04L483.06 239.78C449.46 192.37 394.16 161.37 331.75 161.37C258.06 161.37 194.28 204.6 164.43 267.02L173.29 267.02C202.53 209.12 262.58 169.32 331.75 169.32z"/></g></g></g></svg>RigaCap<span class="dot">.</span></span>
-      <span class="cta">Claim a Founding Seat</span>
     </div>
   </div>
   <span class="card-label">5 / 5</span>
